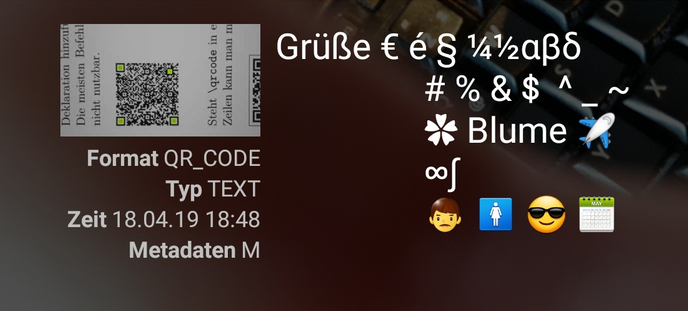
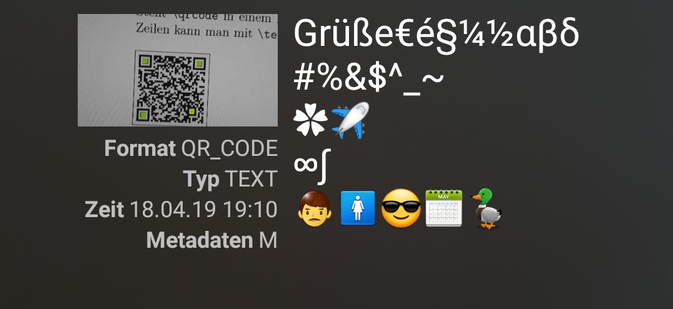
we need a duck ...

diff --git a/putftest.tex b/putftest.tex
@@ -44,6 +44,7 @@
                  # % & $  ^ _ ~
                  \textFiveFlowerPetal ❀ \textPlane
                  \textinfty\textint
+                 \textEmojiDuck
                  \textManFace \textLadiesroom \textEmojiSmileSunglass \textEmojiCalendar}%
 
 
@@ -57,6 +58,7 @@
                 \textFiveFlowerPetal \textPlane\textLF
                 \textinfty\textint\textLF
                 \textManFace \textLadiesroom \textEmojiSmileSunglass \textEmojiCalendar
+                \textEmojiDuck
                  }}%
 
 
